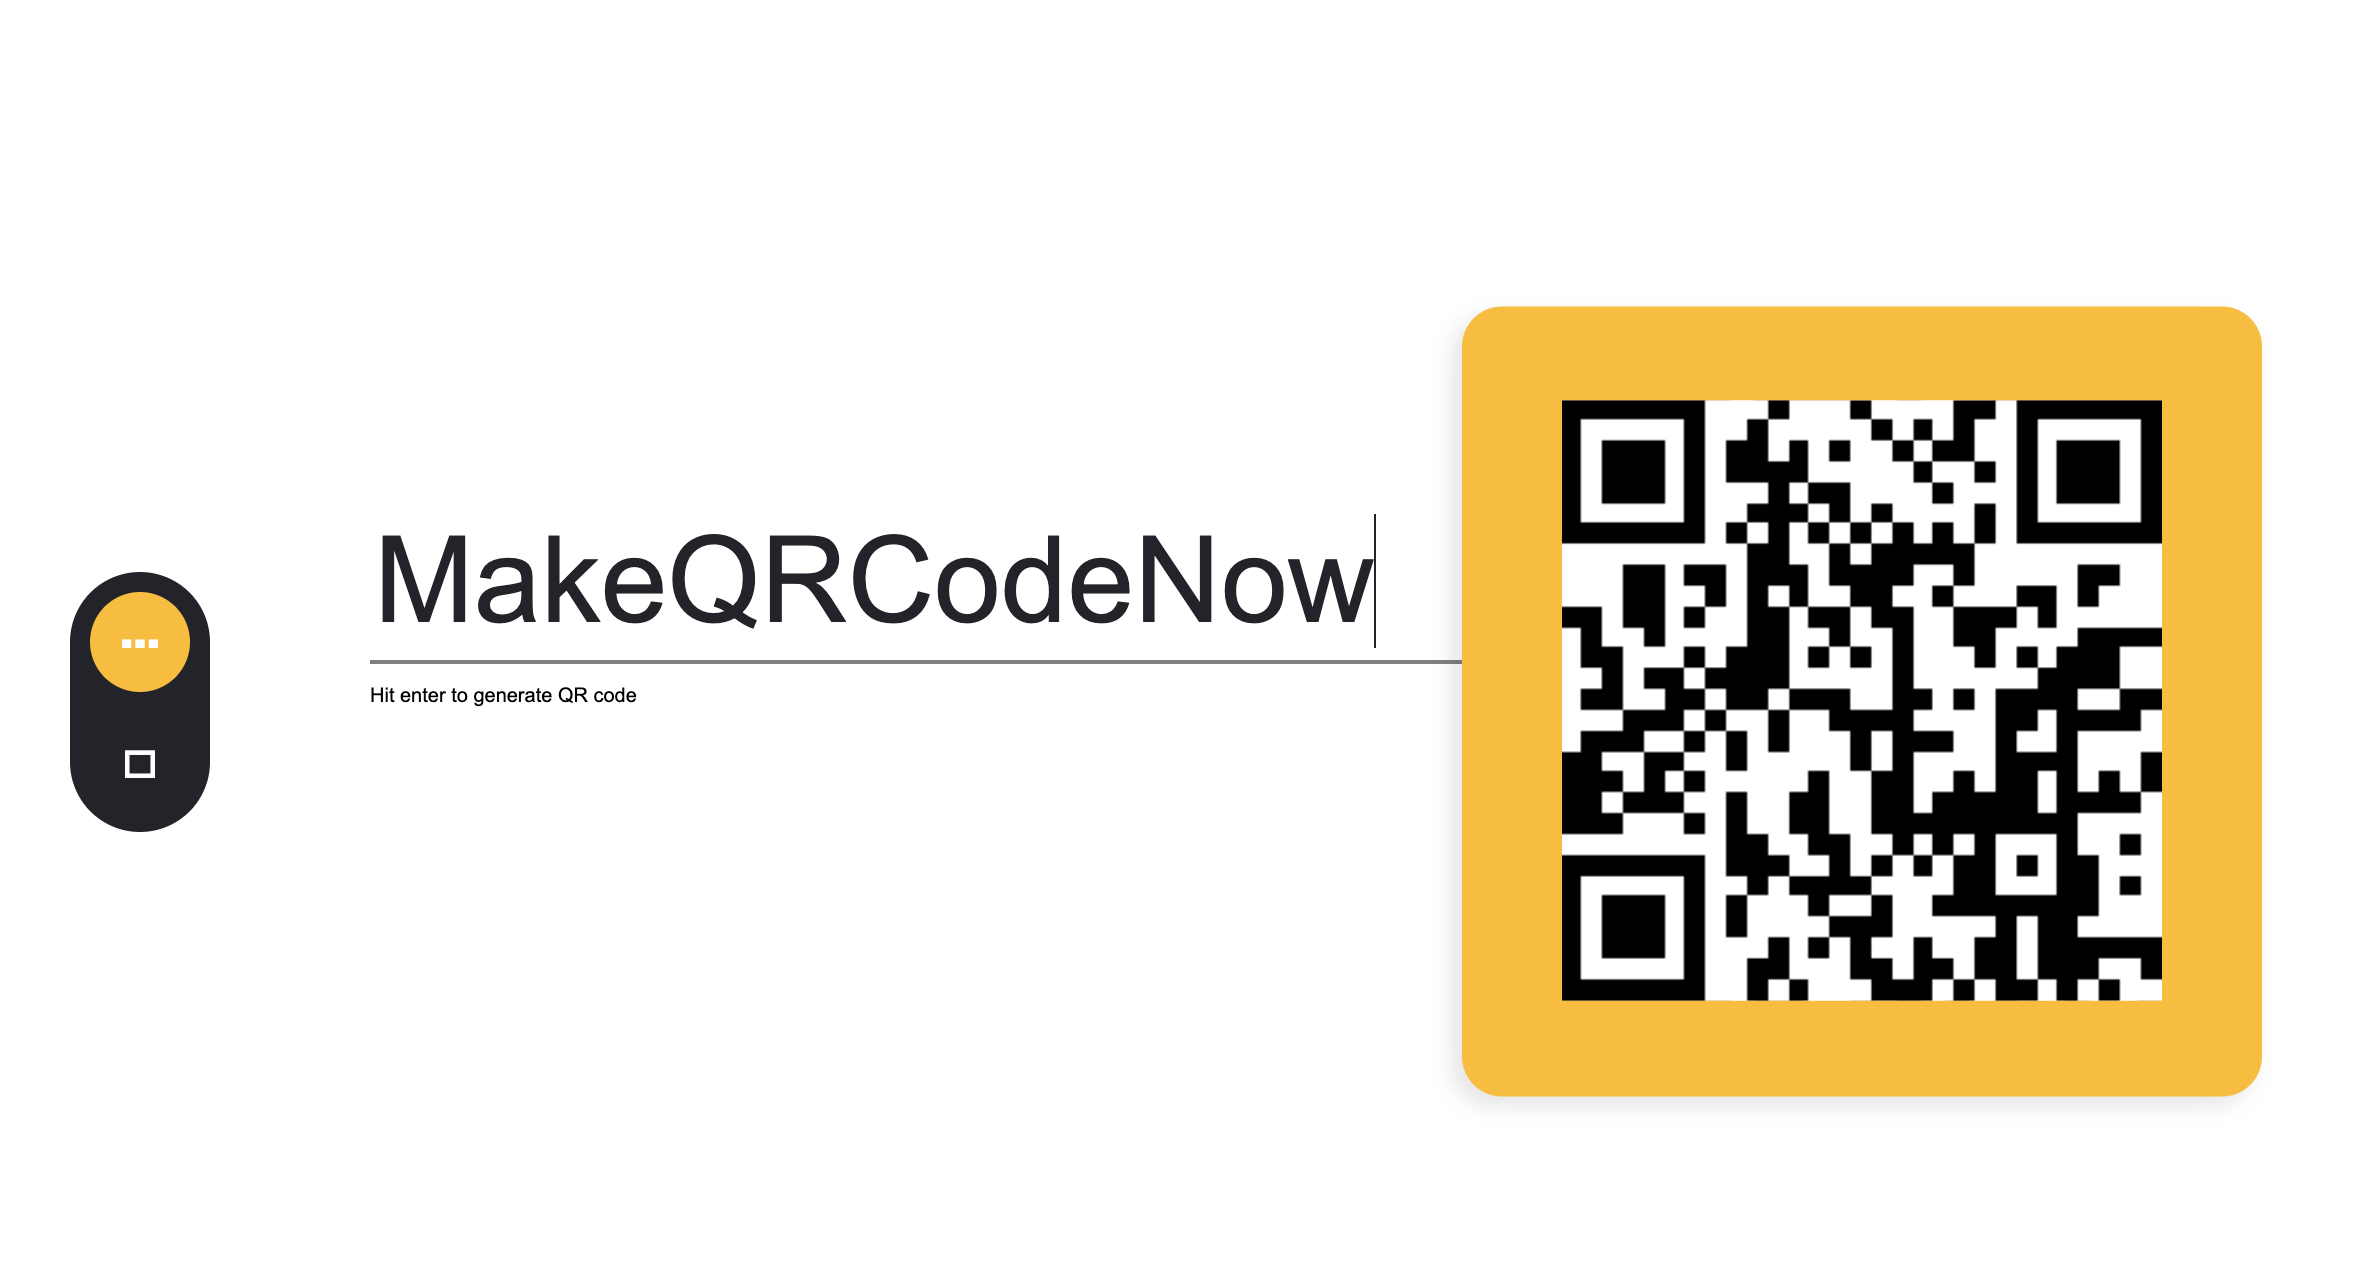
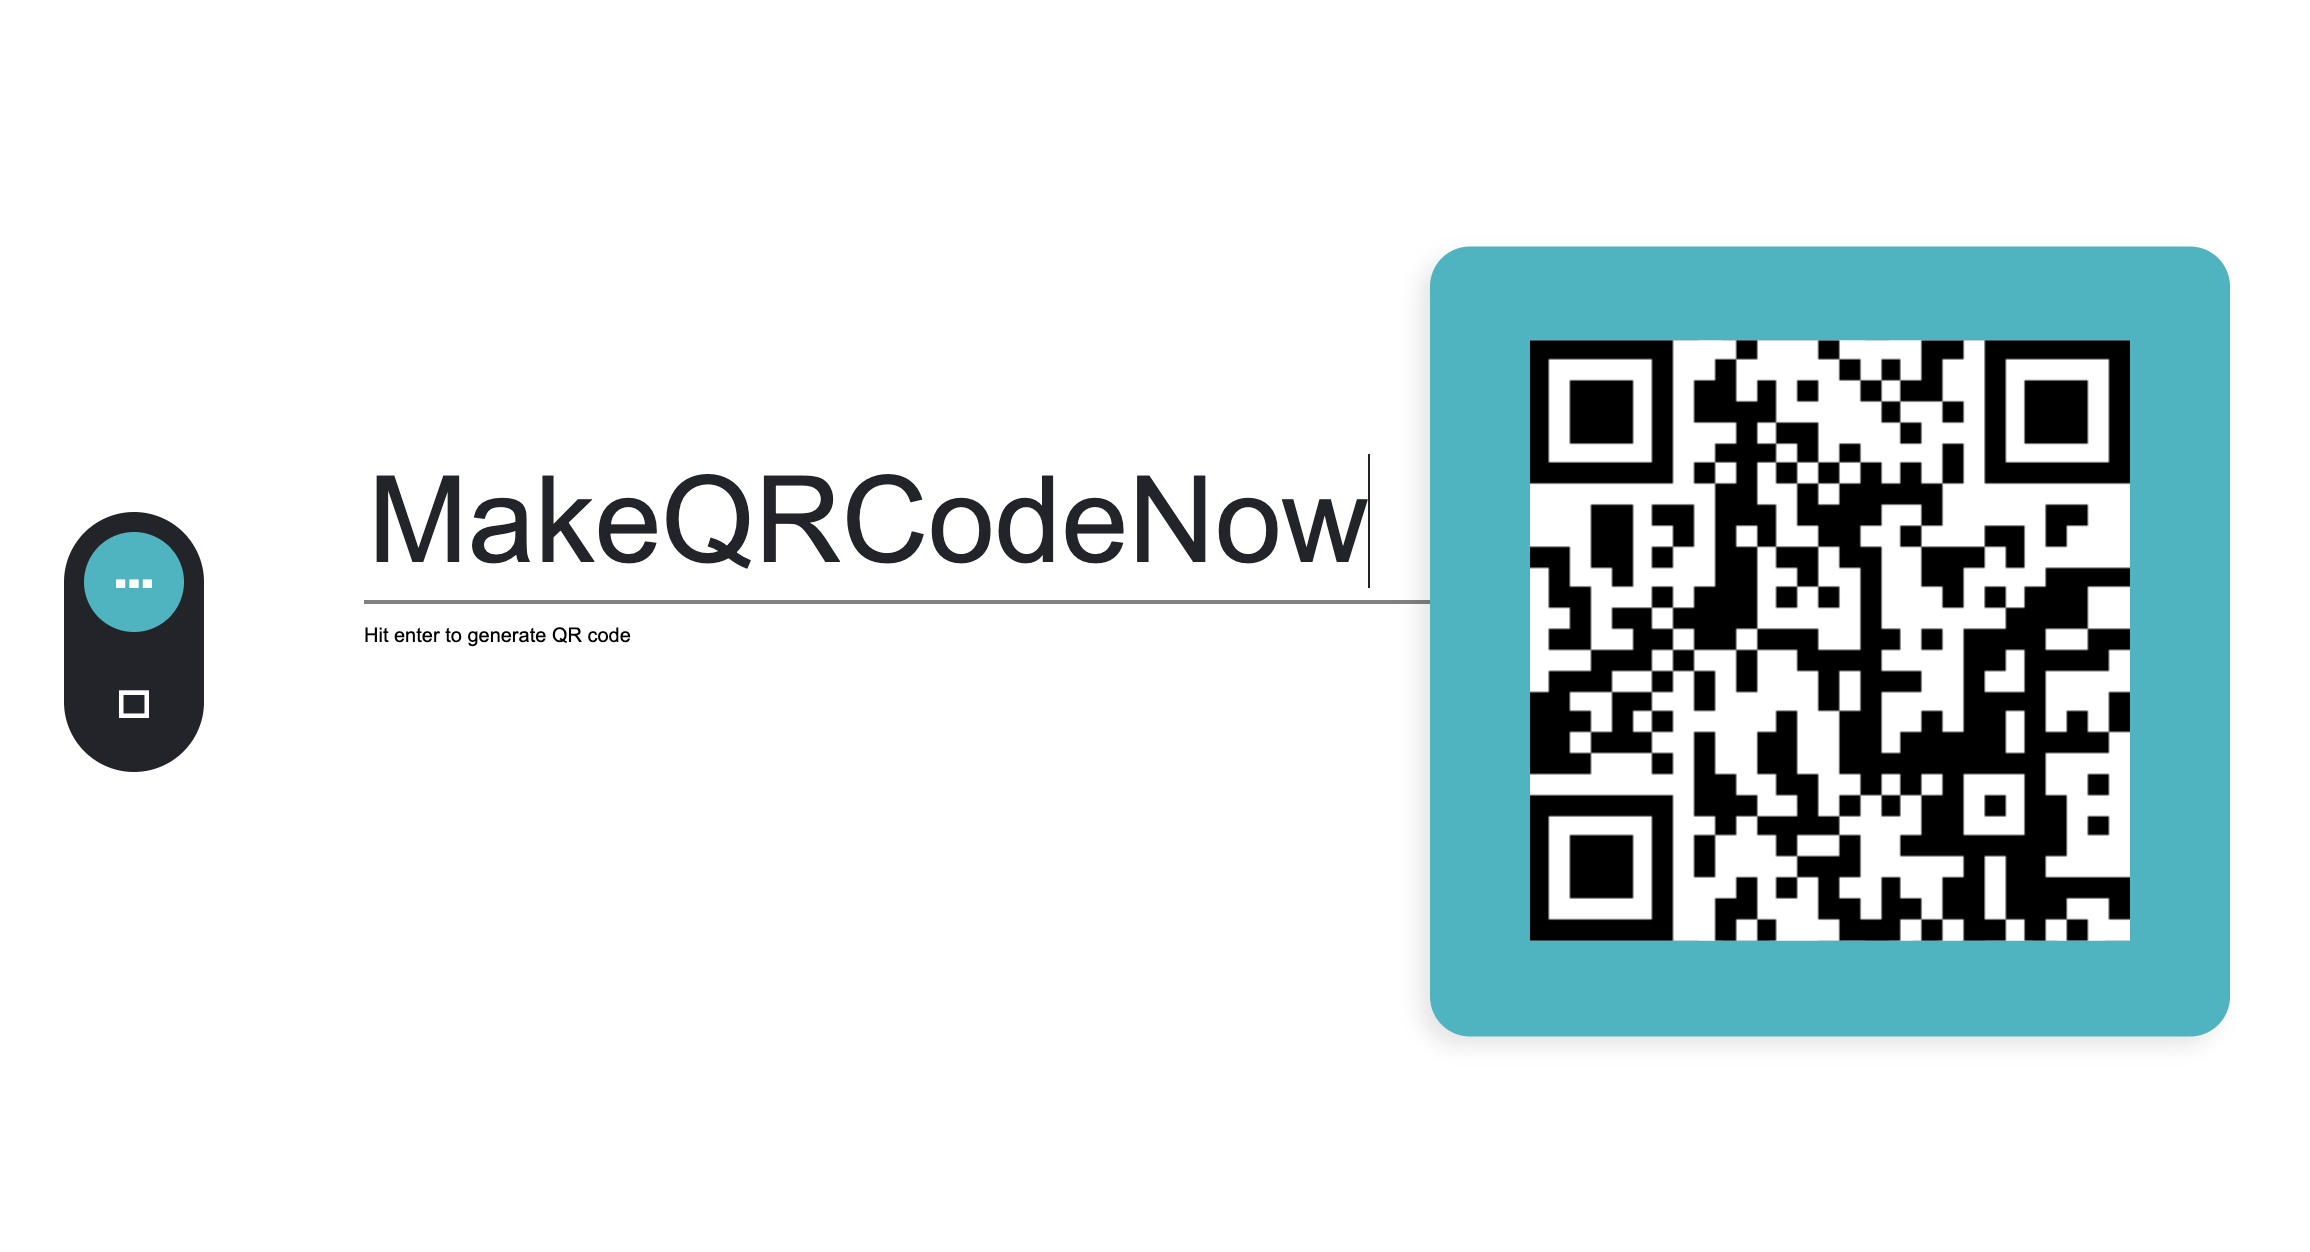
qr-code completed

Changed region(s): [[0.1558, 0.1869, 0.9662, 0.8722], [0.0, 0.405, 0.0935, 0.6542]]

diff --git a/qr-code/style.css b/qr-code/style.css
@@ -62,7 +62,7 @@ body {
 }
 
 .active {
-  background: #ffbb00;
+  background: #00b7c2;
 }
 
 #data {
@@ -91,7 +91,7 @@ body {
 #outputbox {
   width: 400px;
   height: 50%;
-  background: #ffbb00;
+  background: #00b7c2;
   border-radius: 20px;
   box-shadow: -5px 5px 10px rgba(0, 0, 0, .1);
   position: absolute;
